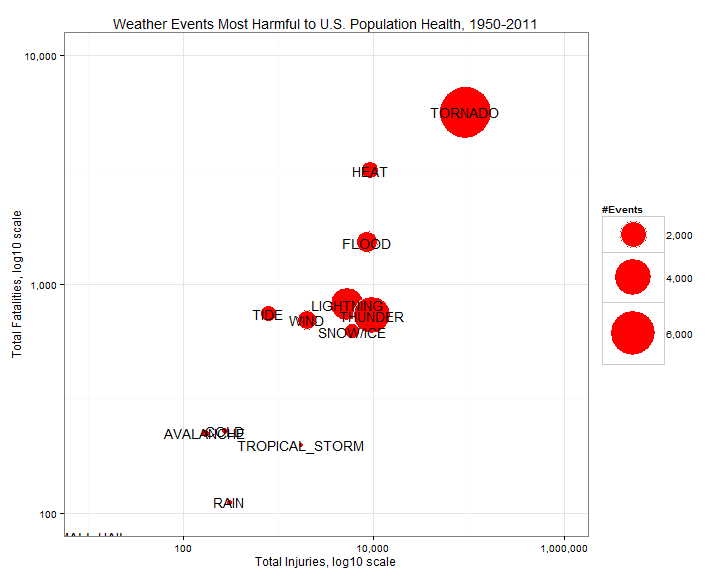
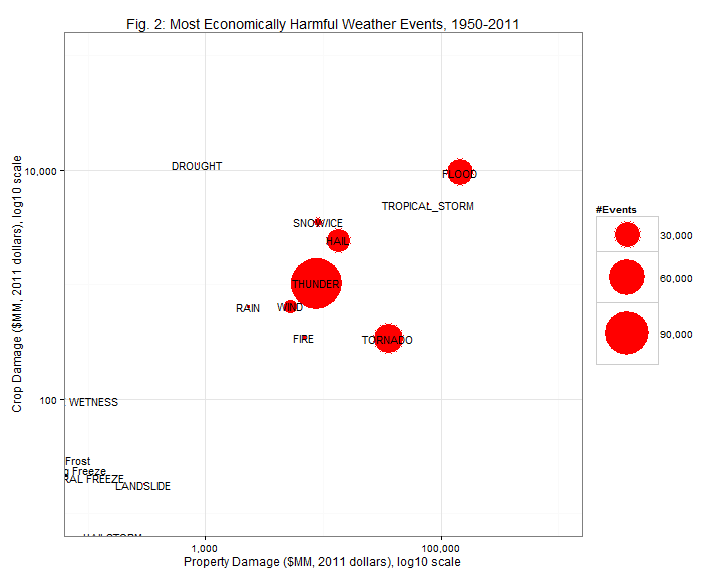
Final work

diff --git a/assignment2.html b/assignment2.html
@@ -181,9 +181,7 @@ hljs.initHighlightingOnLoad();
 <body>
 <h1>Harm by Weather Events: Effects on Population Health, Crops, and Property</h1>
 
-<h1></h1>
-
-<h2>Synopsis</h2>
+<h1>Synopsis</h1>
 
 <p>This analysis summarizes the most harmful weather to the US population and to 
 the US economy. It summarizes weather events in terms of deaths, injuries, and 
@@ -199,7 +197,7 @@ injuries or fatalities</p>
 infrequent, Droughts are just as damaging to crops. Tropical storms are nearly
 as damaging as Floods to property and crops, but also are quite infrequent.</p>
 
-<h2>Data Processing</h2>
+<h1>Data Processing</h1>
 
 <p>The data consists of some 900K observations, and categorizes events among nearly
 1,000 different Types.</p>
@@ -236,9 +234,6 @@ accordingly</p>
 </code></pre>
 
 <pre><code>## Loading required package: lubridate
-</code></pre>
-
-<pre><code>## Warning: package &#39;lubridate&#39; was built under R version 3.0.3
 </code></pre>
 
 <pre><code class="r">stormData$YEAR &lt;- year(strptime(stormData$BGN_DATE, &quot;%m/%d/%Y %H:%M:%S&quot;))
@@ -332,14 +327,9 @@ colnames(harm) &lt;- c(&quot;Property&quot;, &quot;Crops&quot;, &quot;Events&quo
 harm$Category &lt;- rownames(harmful)
 </code></pre>
 
-<p>Let&#39;s reduce the data further to only those with 10 or more total fatalities + injuries, and damages of 10 or more, respectively. </p>
+<h1>Results</h1>
 
-<pre><code class="r">danger2 &lt;- danger[danger$Fatalities + danger$Injuries &gt;= 10, ]
-harm2 &lt;- harm[harm$Property + harm$Crops &gt; 10, ]
-</code></pre>
-
-<p>#Results
-Tornados dominate weather events harmful to population health. The first plot below displays the most harmful weather events, fatalities vs. injuries. The size of the bubbles indicate the total count of such events. After Tornados, the next most dangerous event types include events involving Heat, and events involving Flooding. Tornados are also much more prevalent when it comes to weather events involving either injuries or fatalities.</p>
+<p>Tornados dominate weather events harmful to population health. Firgure 1 below displays the most harmful weather events, fatalities vs. injuries, conditional on either injuries or fatalities reported. The size of the bubbles indicate the total count of such events. After Tornados, the next most dangerous event types as measured by fatalities include events involving Heat, and events involving Flooding. Tornados are also much more prevalent when it comes to weather events involving either injuries or fatalities. In terms of injuries, Heat, Floods, and Thunder are about equally damaging (after Tornados).</p>
 
 <p>I plot the data on log10 scales to accommodate such wide ranges of results.</p>
 
@@ -351,30 +341,30 @@ Tornados dominate weather events harmful to population health. The first plot be
 
 <pre><code class="r">library(scales)
 
-ggplot(danger2, aes(x = Injuries, y = Fatalities, size = Events, label = Category), 
+ggplot(danger, aes(x = Injuries, y = Fatalities, size = Events, label = Category), 
     guide = FALSE) + geom_point(colour = &quot;white&quot;, fill = &quot;red&quot;, shape = 21) + 
     scale_size_area(max_size = 25, name = &quot;#Events&quot;, labels = comma) + scale_x_log10(name = &quot;Total Injuries, log10 scale&quot;, 
     limits = c(10, 10^6), labels = comma) + scale_y_log10(name = &quot;Total Fatalities, log10 scale&quot;, 
     limits = c(100, 10^4), labels = comma) + geom_text(size = 5) + theme_bw() + 
-    ggtitle(&quot;Weather Events Most Harmful to U.S. Population Health, 1950-2011&quot;)
+    ggtitle(&quot;Fig. 1: Weather Events Most Harmful to U.S. Population Health, 1950-2011&quot;)
 </code></pre>
 
[2 lines of base64/hex data omitted]
 
-<p>In terms of economic damage, Floods, Droughts, and Tropical Storms dominated damage to crops, while Floods, Tropical Storms, and Tornados were most damaging to property. Despite their infrequency, Drought and Tropical Storms have been devastating economically.</p>
+<p>Figure 2 includes many more events; evidently more weather events result in property or crop damage than in human fatalities or injuries. In terms of economic damage, Floods, Droughts, and Tropical Storms dominated damage to crops, while Floods, Tropical Storms, and Tornados were most damaging to property. Despite their infrequency, Drought and Tropical Storms have been devastating economically.</p>
 
-<pre><code class="r">harm2$PropMM &lt;- harm2$Property/10^6
-harm2$CropMM &lt;- harm2$Crops/10^6
+<pre><code class="r">harm$PropMM &lt;- harm$Property/10^6
+harm$CropMM &lt;- harm$Crops/10^6
 
-ggplot(harm2, aes(x = PropMM, y = CropMM, size = Events, label = Category), 
-    guide = FALSE) + geom_point(colour = &quot;white&quot;, fill = &quot;red&quot;, shape = 21) + 
-    scale_size_area(max_size = 25, name = &quot;#Events&quot;, labels = comma) + scale_x_log10(name = &quot;Property Damage ($MM, 2011 dollars), log10 scale&quot;, 
+ggplot(harm, aes(x = PropMM, y = CropMM, size = Events, label = Category), guide = FALSE) + 
+    geom_point(colour = &quot;white&quot;, fill = &quot;red&quot;, shape = 21) + scale_size_area(max_size = 25, 
+    name = &quot;#Events&quot;, labels = comma) + scale_x_log10(name = &quot;Property Damage ($MM, 2011 dollars), log10 scale&quot;, 
     limits = c(100, 10^6), labels = comma) + scale_y_log10(name = &quot;Crop Damage ($MM, 2011 dollars), log10 scale&quot;, 
     limits = c(10, 10^5), labels = comma) + geom_text(size = 4) + theme_bw() + 
-    ggtitle(&quot;Most Economically Harmful Weather Events, 1950-2011&quot;)
+    ggtitle(&quot;Fig. 2: Most Economically Harmful Weather Events, 1950-2011&quot;)
 </code></pre>
 
[2 lines of base64/hex data omitted]
 
 <pre><code class="r">
 </code></pre>

diff --git a/assignment2.md b/assignment2.md
@@ -1,6 +1,6 @@
-# Harm by Weather Events: Effects on Population Health, Crops, and Property
+Harm by Weather Events: Effects on Population Health, Crops, and Property
 ========================================
-## Synopsis
+# Synopsis
 This analysis summarizes the most harmful weather to the US population and to 
 the US economy. It summarizes weather events in terms of deaths, injuries, and 
 damage to crops and property. The data was collected by NOAA and consists of 
@@ -16,7 +16,7 @@ infrequent, Droughts are just as damaging to crops. Tropical storms are nearly
 as damaging as Floods to property and crops, but also are quite infrequent.
 
 
-## Data Processing
+# Data Processing
 The data consists of some 900K observations, and categorizes events among nearly
 1,000 different Types.
 
@@ -64,10 +64,6 @@ require(lubridate)
 
 ```
 ## Loading required package: lubridate
-```
-
-```
-## Warning: package 'lubridate' was built under R version 3.0.3
 ```
 
 ```r
@@ -175,17 +171,9 @@ colnames(harm) <- c("Property", "Crops", "Events")
 harm$Category <- rownames(harmful)
 ```
 
-Let's reduce the data further to only those with 10 or more total fatalities + injuries, and damages of 10 or more, respectively. 
 
-
-```r
-danger2 <- danger[danger$Fatalities + danger$Injuries >= 10, ]
-harm2 <- harm[harm$Property + harm$Crops > 10, ]
-```
-
-
-#Results
-Tornados dominate weather events harmful to population health. The first plot below displays the most harmful weather events, fatalities vs. injuries. The size of the bubbles indicate the total count of such events. After Tornados, the next most dangerous event types include events involving Heat, and events involving Flooding. Tornados are also much more prevalent when it comes to weather events involving either injuries or fatalities.
+# Results
+Tornados dominate weather events harmful to population health. Firgure 1 below displays the most harmful weather events, fatalities vs. injuries, conditional on either injuries or fatalities reported. The size of the bubbles indicate the total count of such events. After Tornados, the next most dangerous event types as measured by fatalities include events involving Heat, and events involving Flooding. Tornados are also much more prevalent when it comes to weather events involving either injuries or fatalities. In terms of injuries, Heat, Floods, and Thunder are about equally damaging (after Tornados).
 
 I plot the data on log10 scales to accommodate such wide ranges of results.
 
@@ -201,34 +189,34 @@ require(ggplot2)
 ```r
 library(scales)
 
-ggplot(danger2, aes(x = Injuries, y = Fatalities, size = Events, label = Category), 
+ggplot(danger, aes(x = Injuries, y = Fatalities, size = Events, label = Category), 
     guide = FALSE) + geom_point(colour = "white", fill = "red", shape = 21) + 
     scale_size_area(max_size = 25, name = "#Events", labels = comma) + scale_x_log10(name = "Total Injuries, log10 scale", 
     limits = c(10, 10^6), labels = comma) + scale_y_log10(name = "Total Fatalities, log10 scale", 
     limits = c(100, 10^4), labels = comma) + geom_text(size = 5) + theme_bw() + 
-    ggtitle("Weather Events Most Harmful to U.S. Population Health, 1950-2011")
+    ggtitle("Fig. 1: Weather Events Most Harmful to U.S. Population Health, 1950-2011")
 ```
 
-<img src="figure/unnamed-chunk-11.png" title="plot of chunk unnamed-chunk-11" alt="plot of chunk unnamed-chunk-11" style="display: block; margin: auto;" />
+<img src="figure/unnamed-chunk-10.png" title="plot of chunk unnamed-chunk-10" alt="plot of chunk unnamed-chunk-10" style="display: block; margin: auto;" />
 
 
-In terms of economic damage, Floods, Droughts, and Tropical Storms dominated damage to crops, while Floods, Tropical Storms, and Tornados were most damaging to property. Despite their infrequency, Drought and Tropical Storms have been devastating economically.
+Figure 2 includes many more events; evidently more weather events result in property or crop damage than in human fatalities or injuries. In terms of economic damage, Floods, Droughts, and Tropical Storms dominated damage to crops, while Floods, Tropical Storms, and Tornados were most damaging to property. Despite their infrequency, Drought and Tropical Storms have been devastating economically.
 
 
 
 ```r
-harm2$PropMM <- harm2$Property/10^6
-harm2$CropMM <- harm2$Crops/10^6
+harm$PropMM <- harm$Property/10^6
+harm$CropMM <- harm$Crops/10^6
 
-ggplot(harm2, aes(x = PropMM, y = CropMM, size = Events, label = Category), 
-    guide = FALSE) + geom_point(colour = "white", fill = "red", shape = 21) + 
-    scale_size_area(max_size = 25, name = "#Events", labels = comma) + scale_x_log10(name = "Property Damage ($MM, 2011 dollars), log10 scale", 
+ggplot(harm, aes(x = PropMM, y = CropMM, size = Events, label = Category), guide = FALSE) + 
+    geom_point(colour = "white", fill = "red", shape = 21) + scale_size_area(max_size = 25, 
+    name = "#Events", labels = comma) + scale_x_log10(name = "Property Damage ($MM, 2011 dollars), log10 scale", 
     limits = c(100, 10^6), labels = comma) + scale_y_log10(name = "Crop Damage ($MM, 2011 dollars), log10 scale", 
     limits = c(10, 10^5), labels = comma) + geom_text(size = 4) + theme_bw() + 
-    ggtitle("Most Economically Harmful Weather Events, 1950-2011")
+    ggtitle("Fig. 2: Most Economically Harmful Weather Events, 1950-2011")
 ```
 
-<img src="figure/unnamed-chunk-12.png" title="plot of chunk unnamed-chunk-12" alt="plot of chunk unnamed-chunk-12" style="display: block; margin: auto;" />
+<img src="figure/unnamed-chunk-11.png" title="plot of chunk unnamed-chunk-11" alt="plot of chunk unnamed-chunk-11" style="display: block; margin: auto;" />
 
 ```r
 
